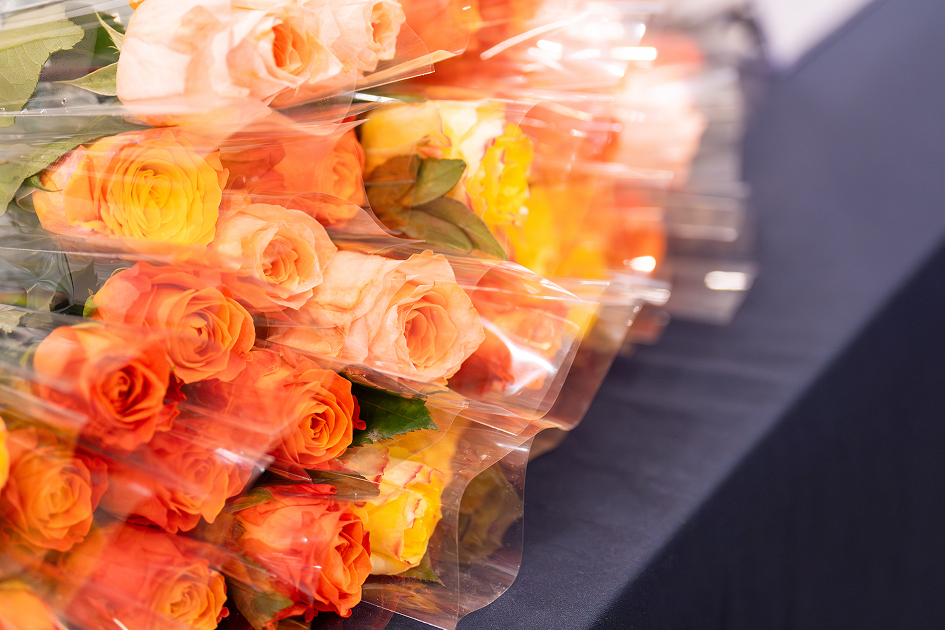
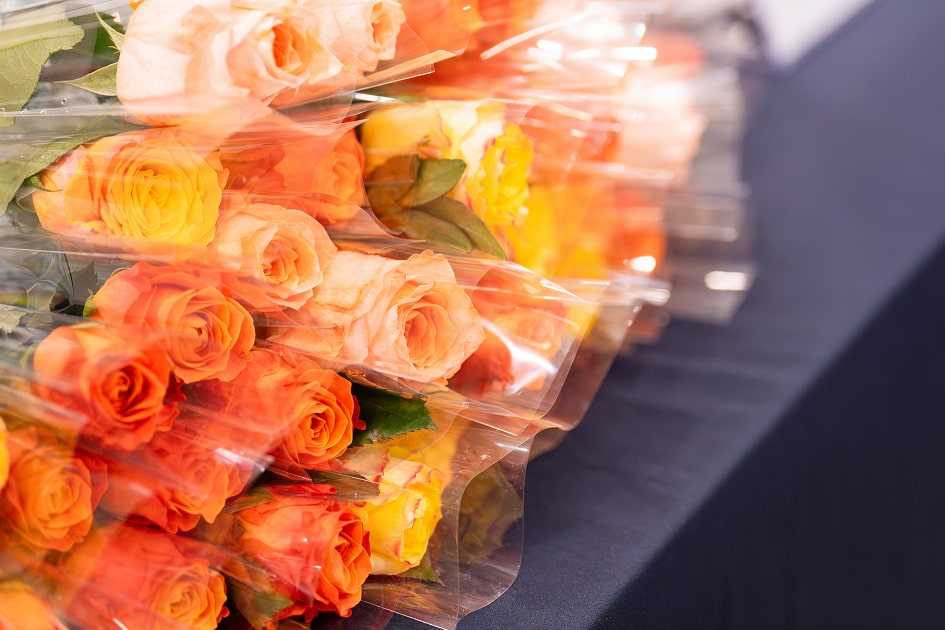
이미지 및 퀵메뉴 수정

Changed region(s): [[0.3683, 0.6635, 0.3989, 0.6937], [0.3376, 0.6937, 0.3683, 0.7238]]

diff --git a/static/webzine/siteStory.html b/static/webzine/siteStory.html
@@ -165,8 +165,8 @@
             <!-- 비주얼 -->
             <div class="image-wrapper">
                 <picture>
-                    <source srcset="images/site/mainVmob.png" media="(max-width: 767px)">
-                    <img class="base-image" src="images/site/mainV.png" alt="배경 이미지">
+                    <source srcset="images/site/mainVmob.jpg" media="(max-width: 767px)">
+                    <img class="base-image" src="images/site/mainV.jpg" alt="배경 이미지">
                 <!-- 추후 overlay 스타일 적용시 참조 : <div class="overlay"></div> -->
                 </picture>
                 <div class="title-wrapper">
@@ -202,17 +202,17 @@
                                 행사의 첫 문은 자립준비청년 앙상블 M.O.A의 공연이었습니다. 영화 &lt;라라랜드>의 OST가 울려 퍼지며 자립을 향한 따뜻한 여정의 서막을 열었습니다.
                             </span>
                             <div class="mt-4 mb-4 animate-on-scroll" data-animate="fadeIn">
-                                <img class="img" src="images/site/contentImg01.png" alt="자립준비청년 앙상블 M.O.A의 연주사진">
+                                <img class="img" src="images/site/contentImg01.jpg" alt="자립준비청년 앙상블 M.O.A의 연주사진">
                             </div>
                             <span class="description">
                                 사회자로 나선 배우 김기리는 드라마 &lt;폭싹 속았수다>의 명대사 “유채꽃은 혼자 피면 꺾이지만 떼로 피면 살아남는다”를 인용하며 이렇게 말했습니다.
                             </span>
                             <div class="flex-bigMark mt-4">
-                                <img class="mark" src="images/specialStory/bigMarkL.png" alt="큰따옴표 아이콘">
+                                <img class="mark" src="images/specialStory/bigMarkL.png" alt="">
                                 <div class="point-box-small">혼자가 아니었기에 가능한 변화, <br/>
                                     ‘함께 피다’ 지금 시작합니다.
                                 </div>
-                                <img class="mark" src="images/specialStory/bigMarkR.png" alt="큰따옴표 아이콘">
+                                <img class="mark" src="images/specialStory/bigMarkR.png" alt="">
                             </div>
                         </div>
                         
@@ -231,8 +231,8 @@
                             </span>
                             <div class="mt-4 mb-4">
                                 <picture>
-                                    <source srcset="images/site/contentImg02mob.png" media="(max-width: 767px)">
-                                    <img class="img" src="images/site/contentImg02.png" alt="격려의 말을 전하는 청중 모습">
+                                    <source srcset="images/site/contentImg02mob.jpg" media="(max-width: 767px)">
+                                    <img class="img" src="images/site/contentImg02.jpg" alt="격려의 말을 전하는 청중 모습">
                                 </picture>
                             </div>
                             <span class="description">
@@ -243,10 +243,10 @@
                             <div class="mt-4 mb-4">
                                 <div class="flexBox">
                                     <div>
-                                        <img class="flexBox-item" src="images/site/contentImg02-1.png" alt="바이올린 연주하는 모습">
+                                        <img class="flexBox-item" src="images/site/contentImg02-1.jpg" alt="바이올린 연주하는 모습">
                                     </div>
                                     <div>
-                                        <img class="flexBox-item" src="images/site/contentImg02-2.png" alt="첼로 연주하는 모습">
+                                        <img class="flexBox-item" src="images/site/contentImg02-2.jpg" alt="첼로 연주하는 모습">
                                     </div>
                                 </div>
                             </div>
@@ -254,7 +254,7 @@
                                 1부 마지막은 M.O.A 앙상블 나동화 단원의 인사와 연주로 이어졌습니다. “음악은 우리의 언어이고, 응원의 박수는 우리가 혼자가 아님을 알게 해주었습니다. 후원자의 관심과 사랑은 우리가 꿈을 꿀 수 있는 토양이 되었어요”라고 말했습니다. 이어 연주된 ‘You Raise Me Up’은 말보다 더 큰 감동으로 현장을 가득 채웠습니다.
                             </span>   
                             <div class="mt-4">
-                                <img class="img" src="images/site/contentImg02-3.png" alt="M.O.A 앙상블 나동화 단원의 인사 모습">  
+                                <img class="img" src="images/site/contentImg02-3.jpg" alt="M.O.A 앙상블 나동화 단원의 인사 모습">  
                             </div>
                         </div>
 
@@ -268,7 +268,7 @@
                                 2부 ‘자립토크 – 함께 피다’는 자립준비청년들과 이들 곁에서 함께하는 사람들의 진솔한 이야기로 이어졌습니다.
                             </span>
                             <div class="mt-4 mb-4">
-                                <img src="images/site/contentImg03.png" alt="토크쇼에서 발표하는 청년">
+                                <img src="images/site/contentImg03.jpg" alt="토크쇼에서 발표하는 청년">
                             </div>
                             <span class="description">
                                 월드비전 자립준비청년 박주만 대리는 청년 당사자 주도 프로젝트 ‘낭만청년단’과 역량 중심 ‘모퉁이컴퍼니’를 소개하면서, 월드비전은 청년에게 단순한 도움을 제공하는 것이 아니라 스스로 자립할 수 있는 힘을 키울 수 있도록 지원하는 것을 사업의 목표로 삼고 있다고 설명했습니다.
@@ -277,15 +277,15 @@
                             </span>
                             <div class="mt-4 mb-4">
                                 <picture>
-                                    <source srcset="images/site/contentImg03-1mob.png" media="(max-width: 767px)">
-                                    <img src="images/site/contentImg03-1.png" alt="‘낭만청년단’에 참여한 정재국 청년의 발표">       
+                                    <source srcset="images/site/contentImg03-1mob.jpg" media="(max-width: 767px)">
+                                    <img src="images/site/contentImg03-1.jpg" alt="‘낭만청년단’에 참여한 정재국 청년의 발표">       
                                 </picture>
                             </div>
                             <span class="description">
                                 ‘모퉁이컴퍼니’에 참여한 마린 청년은 “이 프로젝트를 통해 돈이 기준이 아닌, 내가 진짜 원하는 일이 무엇인지, 잘할 수 있는 일이 무엇인지를 처음으로 진지하게 생각해볼 수 있었다”라며 “이 기회를 통해 다시 꿈꾸게 되었다”고 말했습니다.
                             </span>
                             <div class="mt-4 mb-4">
-                                <img src="images/site/contentImg03-2.png" alt="‘모퉁이컴퍼니’에 참여한 마린 청년의 발표">                
+                                <img src="images/site/contentImg03-2.jpg" alt="‘모퉁이컴퍼니’에 참여한 마린 청년의 발표">                
                             </div>
                             <span class="description">
                                 어려운 순간을 어떻게 견뎠느냐는 질문에 두 청년은 한목소리로 “곁에 있어 준 친구와 동료, 선후배의 위로와 응원”을 이야기했습니다. ‘함께’라는 힘은 역시 자립의 여정에서 빠질 수 없는 요소였습니다.
@@ -304,16 +304,16 @@
                                 그가 들려준 이야기 가운데 마음을 가장 크게 움직인 대목이 있었습니다.
                             </span>
                             <div class="mt-4 mb-4">
-                                <img class="mark" src="images/site/contentImg04.png" alt="김성민 브라더스키퍼 대표의 발표">
+                                <img class="mark" src="images/site/contentImg04.jpg" alt="김성민 브라더스키퍼 대표의 발표">
                             </div>
                             <div class="flex-bigMark mt-4 animate-on-scroll" data-animate="fadeIn">
-                                <img class="mark" src="images/specialStory/bigMarkL.png" alt="큰따옴표 아이콘">
+                                <img class="mark" src="images/specialStory/bigMarkL.png" alt="">
                                 <div class="point-box-small">모든 사람은 죽음을 경험하듯,<br class="mob480"/> 모든 사람은 언젠가
                                     혼자가 되는 시간과 마주해요.<br/> 자립준비청년은 그런 시간을 <br class="mob480"/>조금 먼저 경험한 사람입니다. <br/>이제는 그 경험으로 다른 사람을 <br class="mob480"/>위로할 수 있는 사람이 
                                     되어가는 중입니다.<br /> 이 과정이 삶을 소진하는 것이 아닌, <br class="mob480"/>
                                     채워 나가는 시간이라고 생각합니다.
                                 </div>
-                                <img class="mark" src="images/specialStory/bigMarkR.png" alt="큰따옴표 아이콘">
+                                <img class="mark" src="images/specialStory/bigMarkR.png" alt="">
                             </div>                                
                         </div>
 
@@ -333,12 +333,12 @@
                                 월드비전 자립준비청년 지원 성과 공유 토크 콘서트 &lt;함께 피다>는 단지 한 번의 행사가 아니라, 우리 모두가 자립의 여정에서 ‘서로의 곁에 있다’는 사실을 마음 깊이 되새긴 시간이었습니다.
                             </span>
                             <div class="flex-bigMark mt-4 animate-on-scroll" data-animate="fadeIn">
-                                <img class="mark" src="images/specialStory/bigMarkL.png" alt="큰따옴표 아이콘">
+                                <img class="mark" src="images/specialStory/bigMarkL.png" alt="">
                                 <div class="point-box-small">자립은 나 혼자 살아내는 일이 아니라, <br/>
                                     곁에 있는 누군가와 함께 걸어가는 일입니다. <br/>그리고 자립준비청년 곁에 월드비전과 후원자가 <br/>
                                     함께 든든히 있다면,<br class="mob480"/> 언젠가 반드시 활짝 피어날 것입니다.
                                 </div> 
-                                <img class="mark" src="images/specialStory/bigMarkR.png" alt="큰따옴표 아이콘">
+                                <img class="mark" src="images/specialStory/bigMarkR.png" alt="">
                             </div>
                         </div>
 
@@ -356,11 +356,11 @@
 
         <!-- page ctrl -->
         <div class="pagination">
-            <button id="homePage" onclick="location.href='index.html'"><img src="images/common/homeButton.png" alt="월드비전 웹진 홈 바로가기"></button>
-            <!-- <button id="prevPage" onclick="location.href='campaign.html'"><img src="images/common/prevButton.png" alt="월드비전 웹진 이전 기사로 이동하기"></button> -->
-            <button id="nextPage" onclick="location.href='campaign.html'"><img src="images/common/nextButton.png" alt="월드비전 웹진 다음 기사로 이동하기"></button>
-            <button class="scroll-button" onclick="scrollToTop()" id="upPage"><img src="images/common/topButton.png" alt="월드비전 웹진 상단으로 이동하기"></button>
-        </div> <!-- //page ctrl -->
+            <a id="homePage" href="index.html"><img src="images/common/homeButton.png" alt="월드비전 웹진 홈 바로가기"></a>
+            <!-- <button id="prevPage"><img src="images/common/prevButton.png" alt="월드비전 웹진 이전 기사로 이동하기"></button> -->
+            <a id="nextPage" href="campaign.html"><img src="images/common/nextButton.png" alt="월드비전 웹진 다음 기사로 이동하기"></a>
+            <a class="scroll-button" onclick="scrollToTop()" id="upPage"><img src="images/common/topButton.png" alt="월드비전 웹진 상단으로 이동하기"></a>
+        </div>  <!-- //page ctrl -->
 
 
         

diff --git a/static/webzine/seagull.html b/static/webzine/seagull.html
@@ -165,8 +165,8 @@
             <!-- 비주얼 -->
             <div class="image-wrapper">
                 <picture>
-                    <source srcset="images/seagull/mainVmob.png" media="(max-width: 767px)">
-                    <img class="base-image" src="images/seagull/mainV.png" alt="배경 이미지">
+                    <source srcset="images/seagull/mainVmob.jpg" media="(max-width: 767px)">
+                    <img class="base-image" src="images/seagull/mainV.jpg" alt="배경 이미지">
                 <!-- 추후 overlay 스타일 적용시 참조 : <div class="overlay"></div> -->
                 </picture>
                 <div class="title-wrapper">
@@ -203,7 +203,7 @@
                                     <picture>
                                         <source srcset="images/seagull/bubble1mob2.png" media="(max-width: 664px)">
                                         <!-- <source srcset="images/seagull/bubble1mob.png" media="(max-width: 681px)"> -->
-                                        <img class="img" src="images/seagull/bubble1.png" alt="말풍선 그림">
+                                        <img class="img" src="images/seagull/bubble1.png" alt="">
                                     </picture>
                                     <span class="bunpil bgTxt1">벌레 나오는 집이 너무 싫었어요. <br/>
                                         그래서 집보다는 골목에서 <br class="mob480"/>보내는 시간이 더 많았던 것 같아요.</span>
@@ -232,7 +232,7 @@
                                 <div class="bgTxt-wrap">
                                     <picture>
                                         <source srcset="images/seagull/bubble2mob2.png" media="(max-width: 664px)">
-                                        <img class="img" src="images/seagull/bubble2.png" alt="말풍선 그림">
+                                        <img class="img" src="images/seagull/bubble2.png" alt="">
                                     </picture>
                                     <span class="bunpil bgTxt1">아버지는 늘 성실하게 일하셨어요. <br class="mob480"/>
                                         그럼에도 가난은 나아지지 않았어요.<br/>
@@ -259,7 +259,7 @@
                                 그는 광주 지역 경찰로 임용되었고, 마침내 그토록 벗어나고 싶었던 ‘벌레가 나오던 집’을 떠날 수 있었습니다. 그리고 좋은 사람과 가정을 꾸리면서 함께 빛나는 미래를 꿈꿀 수 있게 되었습니다.
                             </span>
                             <div class="mt-4 mb-4">
-                                <img class="img" src="images/seagull/police1.png" alt="경찰정복을 입고 앉아있는 옆모습">
+                                <img class="img" src="images/seagull/police1.jpg" alt="경찰정복을 입고 앉아있는 옆모습">
                             </div>
                             <span class="description mb-100"> 
                                 그의 기억 속엔 월드비전 복지관 프로그램을 통해 컴퓨터와 피아노를 배운 기억이 또렷이 남아 있습니다. 방학마다 참여한 캠프, 처음 가 본 스키장과 후원자로부터 받은 자전거 선물까지 어린 시절 즐거웠던 추억입니다.
@@ -272,7 +272,7 @@
                                 <div class="bgTxt-wrap">
                                     <picture>
                                         <source srcset="images/seagull/bubble3mob2.png" media="(max-width: 664px)">
-                                        <img class="img" src="images/seagull/bubble3.png" alt="말풍선 그림">
+                                        <img class="img" src="images/seagull/bubble3.png" alt="">
                                     </picture>
                                     <span class="bunpil bgTxt1">어릴 땐 잘 몰랐지만, 어른이 되고 <br class="mob480"/>세상을 
                                         알아갈수록 <br class="web2"/>이런 도움이 얼마나 <br class="mob480"/>
@@ -293,7 +293,7 @@
                                 <div class="bgTxt-wrap">
                                     <picture>
                                         <source srcset="images/seagull/bubble4mob2.png" media="(max-width: 664px)">
-                                        <img class="img" src="images/seagull/bubble4.png" alt="말풍선 그림">
+                                        <img class="img" src="images/seagull/bubble4.png" alt="">
                                     </picture>
                                     <span class="bunpil bgTxt1 position1">문득문득 한 번씩 생각이 나요. <br class="mob480"/>후원받은 것에 대한 고마움이요. <br />
                                         그래서 후원을 시작했어요. 적은 금액이라도, <br class="mob480"/>
@@ -305,10 +305,10 @@
                             </div>   
                             <span class="description mt-100">이영은 씨는 오늘도 받은 사랑을 삶으로 증명하고 있습니다.</span>
                             <div class="mt-4 mb-4">
-                                <img class="img" src="images/seagull/police2.png" alt="경찰관의 인터뷰 중 뒷모습 사진">
+                                <img class="img" src="images/seagull/police2.jpg" alt="경찰관의 인터뷰 중 뒷모습 사진">
                             </div>    
                             <div class="flex-bigMark mt-4">
-                                <img class="mark" src="images/specialStory/bigMarkL.png" alt="큰따옴표 아이콘">
+                                <img class="mark" src="images/specialStory/bigMarkL.png" alt="">
                                 <div class="point-box-small">
                                     후원을 받는 아이들이 자신의 환경을 탓하기보단,<br class="mob480"/>
                                     할 수 있는 최선을 다했으면 좋겠어요.<br/>
@@ -318,7 +318,7 @@
                                     언젠가 큰 힘이 된다는 걸 꼭 기억했으면 좋겠어요.<br class="mob480"/>
                                     저는 그 사랑 덕분에 여기까지 올 수 있었으니까요.
                                 </div>
-                                <img class="mark" src="images/specialStory/bigMarkR.png" alt="큰따옴표 아이콘">
+                                <img class="mark" src="images/specialStory/bigMarkR.png" alt="">
                             </div>               
                         </div>
 
@@ -336,11 +336,11 @@
 
         <!-- page ctrl -->
         <div class="pagination">
-            <button id="homePage" onclick="location.href='index.html'"><img src="images/common/homeButton.png" alt="월드비전 웹진 홈 바로가기"></button>
-            <!-- <button id="prevPage" onclick="location.href='campaign.html'"><img src="images/common/prevButton.png" alt="월드비전 웹진 이전 기사로 이동하기"></button> -->
-            <button id="nextPage" onclick="location.href='siteStory.html'"><img src="images/common/nextButton.png" alt="월드비전 웹진 다음 기사로 이동하기"></button>
-            <button class="scroll-button" onclick="scrollToTop()" id="upPage"><img src="images/common/topButton.png" alt="월드비전 웹진 상단으로 이동하기"></button>
-        </div> <!-- //page ctrl -->
+            <a id="homePage" href="index.html"><img src="images/common/homeButton.png" alt="월드비전 웹진 홈 바로가기"></a>
+            <!-- <button id="prevPage"><img src="images/common/prevButton.png" alt="월드비전 웹진 이전 기사로 이동하기"></button> -->
+            <a id="nextPage" href="siteStory.html"><img src="images/common/nextButton.png" alt="월드비전 웹진 다음 기사로 이동하기"></a>
+            <a class="scroll-button" onclick="scrollToTop()" id="upPage"><img src="images/common/topButton.png" alt="월드비전 웹진 상단으로 이동하기"></a>
+        </div>  <!-- //page ctrl -->
 
 
         

diff --git a/static/webzine/specialStory.html b/static/webzine/specialStory.html
@@ -322,11 +322,12 @@
 
         <!-- page ctrl -->
         <div class="pagination">
-            <button id="homePage" onclick="location.href='index.html'"><img src="images/common/homeButton.png" alt="월드비전 웹진 홈 바로가기"></button>
-            <!-- <button id="prevPage" onclick="location.href='campaign.html'"><img src="images/common/prevButton.png" alt="월드비전 웹진 이전 기사로 이동하기"></button> -->
-            <button id="nextPage" onclick="location.href='character.html'"><img src="images/common/nextButton.png" alt="월드비전 웹진 다음 기사로 이동하기"></button>
-            <button class="scroll-button" onclick="scrollToTop()" id="upPage"><img src="images/common/topButton.png" alt="월드비전 웹진 상단으로 이동하기"></button>
-        </div> <!-- //page ctrl -->
+            <a id="homePage" href="index.html"><img src="images/common/homeButton.png" alt="월드비전 웹진 홈 바로가기"></a>
+            <!-- <button id="prevPage"><img src="images/common/prevButton.png" alt="월드비전 웹진 이전 기사로 이동하기"></button> -->
+            <a id="nextPage" href="character.html"><img src="images/common/nextButton.png" alt="월드비전 웹진 다음 기사로 이동하기"></a>
+            <a class="scroll-button" onclick="scrollToTop()" id="upPage"><img src="images/common/topButton.png" alt="월드비전 웹진 상단으로 이동하기"></a>
+        </div> 
+        <!-- //page ctrl -->
 
 
         

diff --git a/static/webzine/participation.html b/static/webzine/participation.html
@@ -490,11 +490,11 @@
 
         <!-- page ctrl -->
         <div class="pagination">
-            <button id="homePage" onclick="location.href='index.html'"><img src="images/common/homeButton.png" alt="월드비전 웹진 홈 바로가기"></button>
-            <!-- <button id="prevPage" onclick="location.href='campaign.html'"><img src="images/common/prevButton.png" alt="월드비전 웹진 이전 기사로 이동하기"></button> -->
-            <button id="nextPage"  onclick="location.href='seagull.html'"><img src="images/common/nextButton.png" alt="월드비전 웹진 다음 기사로 이동하기"></button>
-            <button class="scroll-button" onclick="scrollToTop()" id="upPage"><img src="images/common/topButton.png" alt="월드비전 웹진 상단으로 이동하기"></button>
-        </div> <!-- //page ctrl -->
+            <a id="homePage" href="index.html"><img src="images/common/homeButton.png" alt="월드비전 웹진 홈 바로가기"></a>
+            <!-- <button id="prevPage"><img src="images/common/prevButton.png" alt="월드비전 웹진 이전 기사로 이동하기"></button> -->
+            <a id="nextPage" href="seagull.html"><img src="images/common/nextButton.png" alt="월드비전 웹진 다음 기사로 이동하기"></a>
+            <a class="scroll-button" onclick="scrollToTop()" id="upPage"><img src="images/common/topButton.png" alt="월드비전 웹진 상단으로 이동하기"></a>
+        </div>   <!-- //page ctrl -->
 
 
         

diff --git a/static/webzine/character.html b/static/webzine/character.html
@@ -467,11 +467,11 @@
 
         <!-- page ctrl -->
         <div class="pagination">
-            <button id="homePage" onclick="location.href='index.html'"><img src="images/common/homeButton.png" alt="월드비전 웹진 홈 바로가기"></button>
-            <!-- <button id="prevPage" onclick="location.href='campaign.html'"><img src="images/common/prevButton.png" alt="월드비전 웹진 이전 기사로 이동하기"></button> -->
-            <button id="nextPage" onclick="location.href='patron.html'"><img src="images/common/nextButton.png" alt="월드비전 웹진 다음 기사로 이동하기"></button>
-            <button class="scroll-button" onclick="scrollToTop()" id="upPage"><img src="images/common/topButton.png" alt="월드비전 웹진 상단으로 이동하기"></button>
-        </div> <!-- //page ctrl -->
+            <a id="homePage" href="index.html"><img src="images/common/homeButton.png" alt="월드비전 웹진 홈 바로가기"></a>
+            <!-- <button id="prevPage"><img src="images/common/prevButton.png" alt="월드비전 웹진 이전 기사로 이동하기"></button> -->
+            <a id="nextPage" href="patron.html"><img src="images/common/nextButton.png" alt="월드비전 웹진 다음 기사로 이동하기"></a>
+            <a class="scroll-button" onclick="scrollToTop()" id="upPage"><img src="images/common/topButton.png" alt="월드비전 웹진 상단으로 이동하기"></a>
+        </div>  <!-- //page ctrl -->
 
 
         

diff --git a/static/webzine/news.html b/static/webzine/news.html
@@ -302,11 +302,11 @@
 
         <!-- page ctrl -->
         <div class="pagination">
-            <button id="homePage" onclick="location.href='index.html'"><img src="images/common/homeButton.png" alt="월드비전 웹진 홈 바로가기"></button>
-            <button id="prevPage" onclick="location.href='campaign.html'"><img src="images/common/prevButton.png" alt="월드비전 웹진 이전 기사로 이동하기"></button>
-            <!-- <button id="nextPage"><img src="images/common/nextButton.png" alt="월드비전 웹진 다음 기사로 이동하기"></button> -->
-            <button class="scroll-button" onclick="scrollToTop()" id="upPage"><img src="images/common/topButton.png" alt="월드비전 웹진 상단으로 이동하기"></button>
-        </div> <!-- //page ctrl -->
+            <a id="homePage" href="index.html"><img src="images/common/homeButton.png" alt="월드비전 웹진 홈 바로가기"></a>
+            <!-- <button id="prevPage"><img src="images/common/prevButton.png" alt="월드비전 웹진 이전 기사로 이동하기"></button> -->
+            <a id="nextPage" href="campaign.html"><img src="images/common/nextButton.png" alt="월드비전 웹진 다음 기사로 이동하기"></a>
+            <a class="scroll-button" onclick="scrollToTop()" id="upPage"><img src="images/common/topButton.png" alt="월드비전 웹진 상단으로 이동하기"></a>
+        </div>  <!-- //page ctrl -->
 
 
         

diff --git a/static/webzine/campaign.html b/static/webzine/campaign.html
@@ -363,10 +363,10 @@
 
         <!-- page ctrl -->
         <div class="pagination">
-            <button id="homePage" onclick="location.href='index.html'"><img src="images/common/homeButton.png" alt="월드비전 웹진 홈 바로가기"></button>
+            <a id="homePage" href="index.html"><img src="images/common/homeButton.png" alt="월드비전 웹진 홈 바로가기"></a>
             <!-- <button id="prevPage"><img src="images/common/prevButton.png" alt="월드비전 웹진 이전 기사로 이동하기"></button> -->
-            <button id="nextPage" onclick="location.href='news.html'"><img src="images/common/nextButton.png" alt="월드비전 웹진 다음 기사로 이동하기"></button>
-            <button class="scroll-button" onclick="scrollToTop()" id="upPage"><img src="images/common/topButton.png" alt="월드비전 웹진 상단으로 이동하기"></button>
+            <a id="nextPage" href="news.html"><img src="images/common/nextButton.png" alt="월드비전 웹진 다음 기사로 이동하기"></a>
+            <a class="scroll-button" onclick="scrollToTop()" id="upPage"><img src="images/common/topButton.png" alt="월드비전 웹진 상단으로 이동하기"></a>
         </div> <!-- //page ctrl -->
 
 

diff --git a/static/webzine/css/main.css b/static/webzine/css/main.css
@@ -989,7 +989,7 @@
     }
     .news .content .description {
         max-width: none;
-        margin: auto;
+        /* margin: auto; */
     }
     #container .news .step .description.mid {
         margin: 0 auto;
